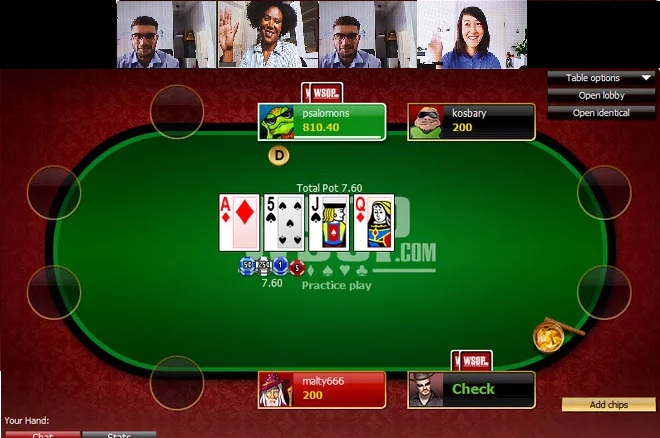
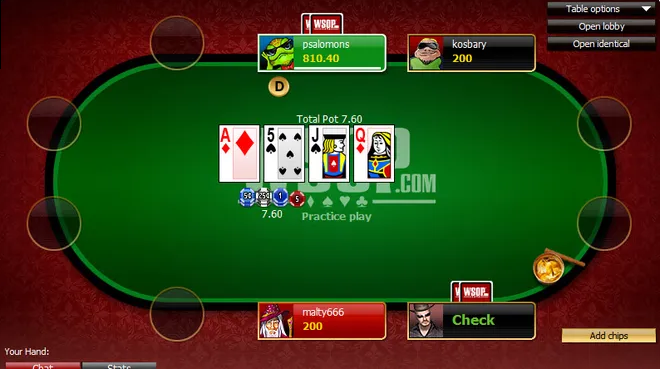
play game animation

diff --git a/app/package/static/js/show_room.js b/app/package/static/js/show_room.js
@@ -57,7 +57,7 @@ socket.on('append_video_frame', (user) => {
     <img src="` + user.image_file + `"  height="300px" width="100%">
     </div>
     `;
-    $('#videos-container').append(video_frame)
+    $('#videos-frame-container').append(video_frame)
 })
 
 
@@ -92,14 +92,27 @@ function checkKey(e){
 
 $(document).ready(function() {
     $('#play-game-button').click(function() {
-        if($('#video-image').attr('src') === '/static/images/table_room.jpg') {
-            $('#video-image').attr('src', '/static/images/poker-game.png')
-            $(this).text('Back')
+        if($(this).text() == 'Play a Game') {
+            $('#videos-frame-container').css('transform', 'scale(0.5)')
+            let play_game_img = $(`
+            <div class="row" id="play-game-image">
+                <img src="/static/images/poker-game.png" width="100%" height="600px" alt="">
+            </div>
+            `).hide()
+    
+            $('#videos-main-container').append(play_game_img)
+            play_game_img.show(400)
+    
+            $(this).text('Quit')
         }
         else {
-            $('#video-image').attr('src', '/static/images/table_room.jpg')
-            $(this).text('Play a Game')
+            $('#play-game-image').hide(400, () => {
+                $('#play-game-image').remove()
+                $(this).text('Play a Game')
+                $('#videos-frame-container').css('transform', 'scale(1)');
+
+            })
 
         }
-    })
+    }) 
 })

diff --git a/app/package/templates/show_room.html b/app/package/templates/show_room.html
@@ -21,8 +21,8 @@
 </head>
 <body>
 
-    <div class="container">
-        <div class="row" id="videos-container">
+    <div class="container" id="videos-main-container">
+        <div class="row" id="videos-frame-container">
             {% for user in room.clients %}
             <div class="col-lg-4" id="user-{{user.id}}-video-image">
                 <img src="{{url_for('static', filename='images/' + user.image_file) }}" height="300px" width="100%">
@@ -30,6 +30,7 @@
             {% endfor %}
         </div>
     </div>
+
 
     <div class="text-center">
         <button class="btn mt-2" id="play-game-button">Play a Game</button>

diff --git a/app/package/static/styles/show_room.css b/app/package/static/styles/show_room.css
@@ -4,9 +4,10 @@ body, html {
     color: white;
 }
 
-#videos-container{
+#videos-frame-container{
     height: 60%;
     width: 100%;
+    transition: 0.5s;
 }
 
 #table-name {
